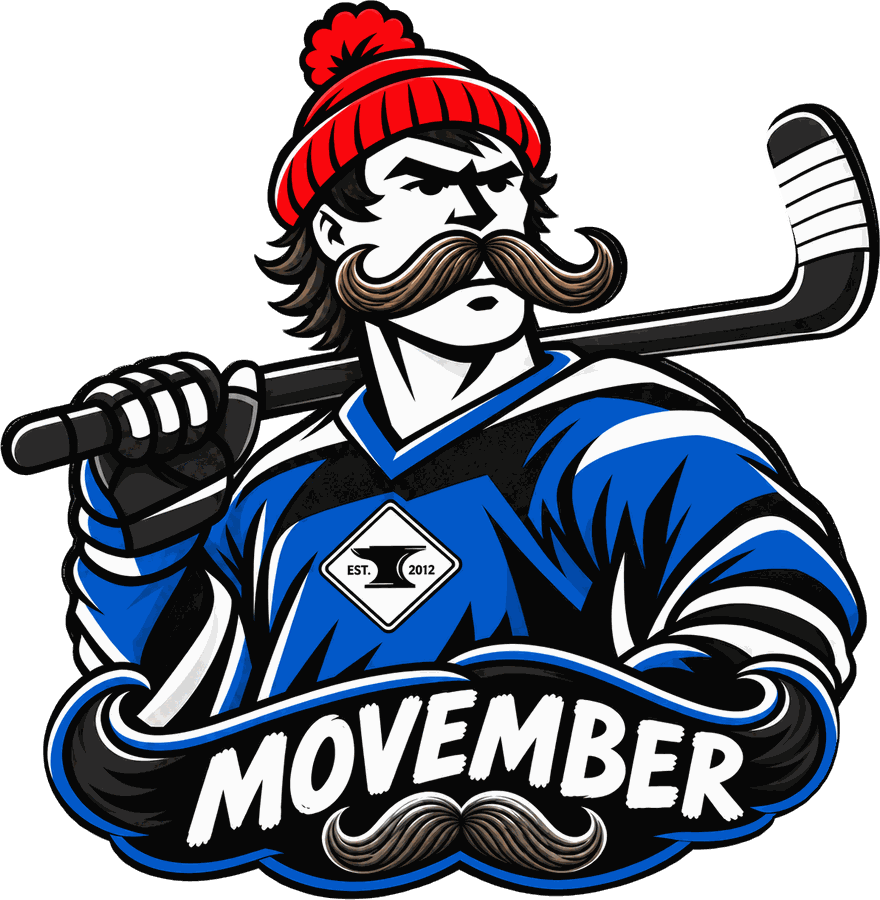
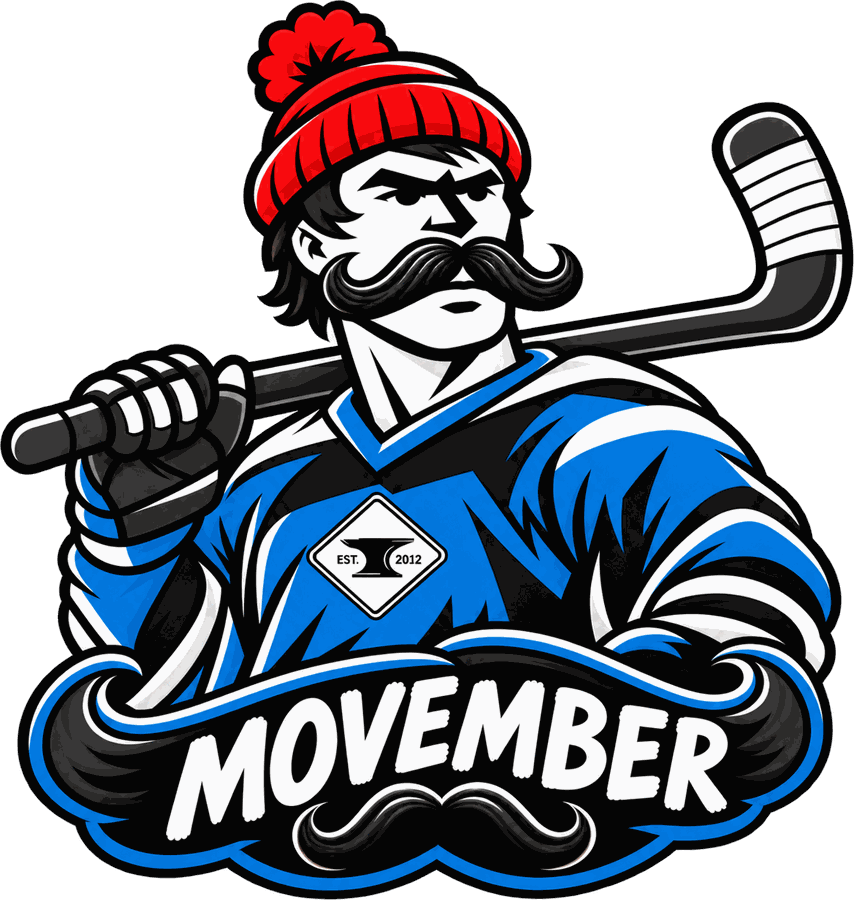
v3.14.1: Movember – ny blå logga med genomskinlig bakgrund
Claude-Session: https://claude.ai/code/session_014aUvUgNkc7qupqSXqFfMok

diff --git a/client/src/pages/media/CampaignPanel.tsx b/client/src/pages/media/CampaignPanel.tsx
@@ -28,8 +28,8 @@ export const CAMPAIGN_MODES: Array<{ id: CampaignMode; name: string; help: strin
 export function themeLogoUrl(t: CampaignTheme | null | undefined): string | null {
   if (!t) return null;
   if (t.hasLogo) return `/api/media/themes/${t.id}/logo?v=${new Date(t.updatedAt).getTime()}`;
-  // ?v=2: den blå loggan (2026-11-01) – ny adress så att telefonernas cache inte visar den gröna
-  return t.builtin ? `/images/campaigns/${t.builtin}.png?v=2` : null;
+  // ?v=3: ny version av loggan (2026-11-01) – ny adress så att telefonernas cache inte visar en äldre
+  return t.builtin ? `/images/campaigns/${t.builtin}.png?v=3` : null;
 }
 export function themePhotoUrl(t: CampaignTheme | null | undefined): string | null {
   return t?.hasPhoto ? `/api/media/themes/${t.id}/photo?v=${new Date(t.updatedAt).getTime()}` : null;

diff --git a/CHANGELOG.md b/CHANGELOG.md
@@ -7,6 +7,10 @@ Versionsnummer: `MAJOR.MINOR.PATCH`
 
 Versionen höjs i `package.json` vid varje deploy till `production`, och commiten taggas `vX.Y.Z` på GitHub. Versionen och byggdatumet visas diskret längst ner i appen och i `/api/health`.
 
+## 3.14.1 – 2026-11-01
+
+- Movember: ny version av den blå loggan (svart mustasch, genomskinlig bakgrund).
+
 ## 3.14.0 – 2026-11-01
 
 - **Kampanj: bakgrund per inlägg** som i övriga mallar – temats bakgrund (standard), en bakgrund ur listan eller en egen bild med mörkning. Temats bakgrund ändras fortfarande under Ändra tema och gäller de inlägg som använder den.
